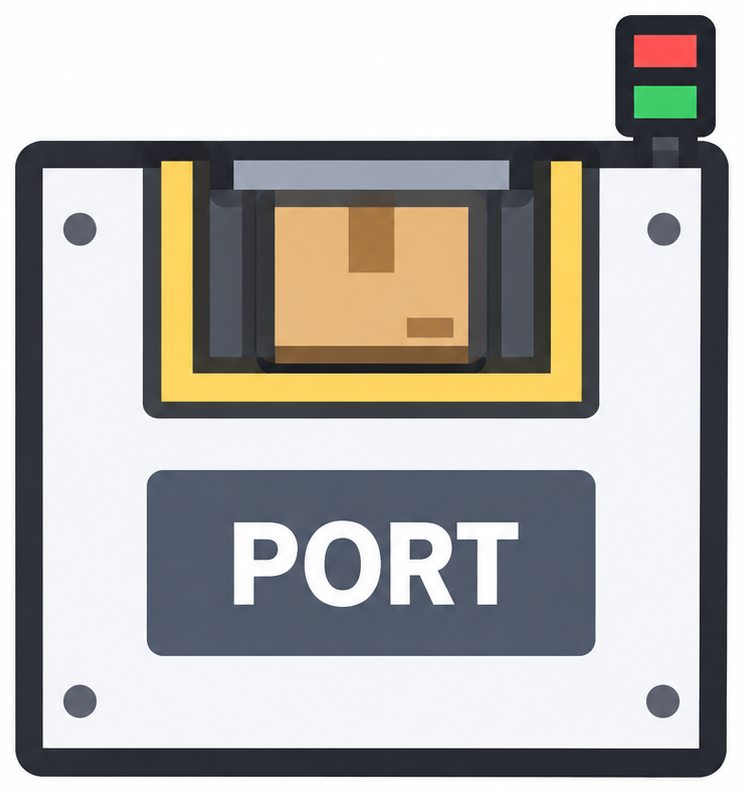
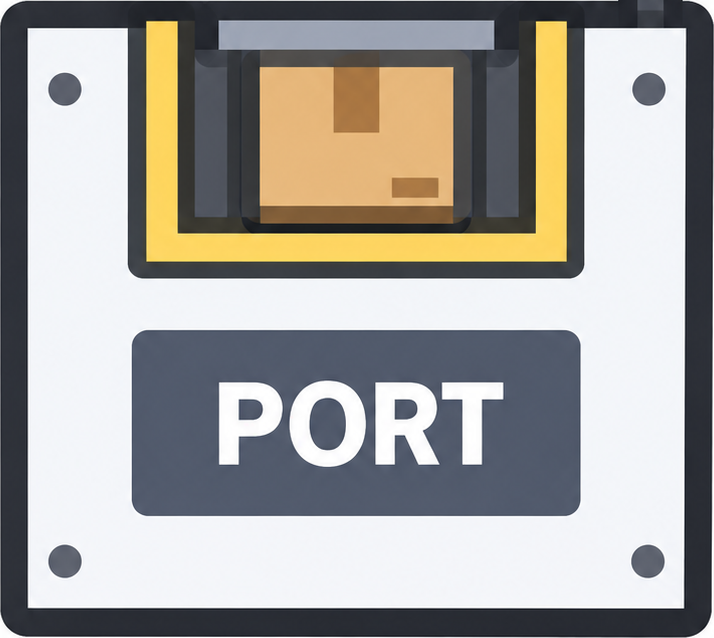
[Fix] Modeler 및 Control UI의 텍스트 변경

diff --git a/src/components/SimulationPreview.tsx b/src/components/SimulationPreview.tsx
@@ -26,9 +26,9 @@ type ModelSprite = {
 
 const portSprite: ModelSprite = {
   href: portModel,
-  sourceWidth: 744,
-  sourceHeight: 792,
-  border: { left: 15, top: 140, right: 728, bottom: 777 },
+  sourceWidth: 714,
+  sourceHeight: 638,
+  border: { left: 0, top: 0, right: 714, bottom: 638 },
 }
 
 const agvSprite: ModelSprite = {
@@ -132,10 +132,8 @@ function LayoutDiagram({ idPrefix }: LayoutDiagramProps) {
   })
   const { offsetX: gridOffsetX, offsetY: gridOffsetY } = diagramMetrics
   const unitSize = (diagramMetrics.gridSize * 920) / diagramMetrics.width
-  const layoutOffsetX = unitSize * 0.5
-  const layoutOffsetY = unitSize * -0.5
-  const originX = 20 + layoutOffsetX
-  const portY = 20 + layoutOffsetY
+  const originX = unitSize
+  const portY = unitSize
   const objectSize = unitSize * 2
   const agvY = portY + objectSize + unitSize * 0.75
   const conveyorY = agvY + unitSize + unitSize * 0.75
@@ -224,11 +222,13 @@ function LayoutDiagram({ idPrefix }: LayoutDiagramProps) {
     y: rack.border.y + rack.border.height / 2,
   }
 
-  const portLabelX = port.border.x + port.border.width + unitSize * 0.22
-  const portLabelY = portCenter.y + unitSize * 0.12
-  const agvLabelY = agv.border.y + agv.border.height + unitSize * 0.42
-  const conveyorLabelY = conveyors[0].border.y + conveyors[0].border.height + unitSize * 0.34
-  const conveyorLabelLineHeight = unitSize * 0.45
+  const labelOffsetY = unitSize * 0.36
+  const portLabelY = port.border.y + port.border.height + labelOffsetY
+  const agvLabelY = agv.border.y + agv.border.height + labelOffsetY
+  const conveyorLabelY = conveyors[0].border.y + conveyors[0].border.height + labelOffsetY
+  const conveyorMiddleLabelY =
+    conveyors[1].border.y + conveyors[1].border.height + unitSize * 1.18
+  const rackLabelY = rack.border.y + rack.border.height + labelOffsetY
 
   useEffect(() => {
     const diagram = diagramRef.current
@@ -302,32 +302,31 @@ function LayoutDiagram({ idPrefix }: LayoutDiagramProps) {
         <rect className="diagram-conveyor__selection" x={conveyors[1].border.x} y={conveyors[1].border.y} width={conveyors[1].border.width} height={conveyors[1].border.height} rx="3" />
       </g>
       <image href={rack.href} x={rack.x} y={rack.y} width={rack.width} height={rack.height} preserveAspectRatio="none" />
+      <g className="diagram-object-label" style={{ fontSize: unitSize * 0.42 }}>
+        <text x={portCenter.x} y={portLabelY} textAnchor="middle">PORT-01</text>
+        <text x={agvCenter.x} y={agvLabelY} textAnchor="middle">AGV-01</text>
+        {conveyorCenters.map((center, index) => (
+          <text
+            key={`conveyor-label-${index}`}
+            x={center.x}
+            y={index === 1 ? conveyorMiddleLabelY : conveyorLabelY}
+            textAnchor="middle"
+          >
+            <tspan x={center.x}>CONVEYOR-</tspan>
+            <tspan x={center.x} dy="1.15em">{`0${index + 1}`}</tspan>
+          </text>
+        ))}
+        <text x={rackCenter.x} y={rackLabelY} textAnchor="middle">RACK-01</text>
+      </g>
       {idPrefix === 'modeling' && (
         <g className="diagram-connection">
-          <path d={`M${portCenter.x} ${port.border.y + port.border.height}L${portCenter.x} ${agvCenter.y}`} markerEnd={`url(#${arrowId})`} />
-          <path d={`M${portCenter.x} ${agvCenter.y}L${portCenter.x} ${conveyorCenters[0].y}`} markerEnd={`url(#${arrowId})`} />
+          <path d={`M${portCenter.x} ${portCenter.y}L${agvCenter.x} ${agvCenter.y}`} markerEnd={`url(#${arrowId})`} />
+          <path d={`M${agvCenter.x} ${agvCenter.y}L${conveyorCenters[0].x} ${conveyorCenters[0].y}`} markerEnd={`url(#${arrowId})`} />
           <path d={`M${conveyorCenters[0].x} ${conveyorCenters[0].y}L${conveyorCenters[1].x} ${conveyorCenters[1].y}`} markerEnd={`url(#${arrowId})`} />
           <path d={`M${conveyorCenters[1].x} ${conveyorCenters[1].y}L${conveyorCenters[2].x} ${conveyorCenters[2].y}`} markerEnd={`url(#${arrowId})`} />
           <path d={`M${conveyorCenters[2].x} ${conveyorCenters[2].y}L${rackCenter.x} ${rackCenter.y}`} markerEnd={`url(#${arrowId})`} />
         </g>
       )}
-      <g className="diagram-object-label">
-        <text x={portLabelX} y={portLabelY} textAnchor="start">PORT-01</text>
-        <text x={agvCenter.x} y={agvLabelY} textAnchor="middle">AGV-01</text>
-        <text x={conveyorCenters[0].x} y={conveyorLabelY} textAnchor="middle" style={{ fontSize: unitSize * 0.32 }}>
-          <tspan x={conveyorCenters[0].x}>CONVEYOR-</tspan>
-          <tspan x={conveyorCenters[0].x} dy={conveyorLabelLineHeight}>01</tspan>
-        </text>
-        <text x={conveyorCenters[1].x} y={conveyorLabelY} textAnchor="middle" style={{ fontSize: unitSize * 0.32 }}>
-          <tspan x={conveyorCenters[1].x}>CONVEYOR-</tspan>
-          <tspan x={conveyorCenters[1].x} dy={conveyorLabelLineHeight}>02</tspan>
-        </text>
-        <text x={conveyorCenters[2].x} y={conveyorLabelY} textAnchor="middle" style={{ fontSize: unitSize * 0.32 }}>
-          <tspan x={conveyorCenters[2].x}>CONVEYOR-</tspan>
-          <tspan x={conveyorCenters[2].x} dy={conveyorLabelLineHeight}>03</tspan>
-        </text>
-        <text x={rack.border.x} y={rack.border.y - 7}>RACK-01</text>
-      </g>
     </svg>
   )
 }

diff --git a/src/App.css b/src/App.css
@@ -2486,10 +2486,11 @@
 }
 
 .diagram-object-label {
-  fill: #8199b3;
+  fill: #cbdced;
   font-family: var(--mono);
-  font-size: 13px;
-  letter-spacing: 0.06em;
+  font-size: 14px;
+  font-weight: 600;
+  letter-spacing: 0.04em;
 }
 
 .diagram-object-label text {
@@ -2499,13 +2500,6 @@
   stroke-linejoin: round;
 }
 
-.diagram-object-label text:first-child {
-  fill: #e8ba72;
-}
-
-.diagram-object-label text:last-child {
-  fill: #9db8d0;
-}
 
 .diagram-conveyor__selection {
   fill: none;
@@ -2922,11 +2916,6 @@
 
 .simulation-screen--modeling .screen-layout__heading {
   color: #a0b6ca;
-}
-
-.layout-diagram--modeler .diagram-object-label {
-  font-size: 15px;
-  font-weight: 600;
 }
 
 @media (prefers-reduced-motion: reduce) {
